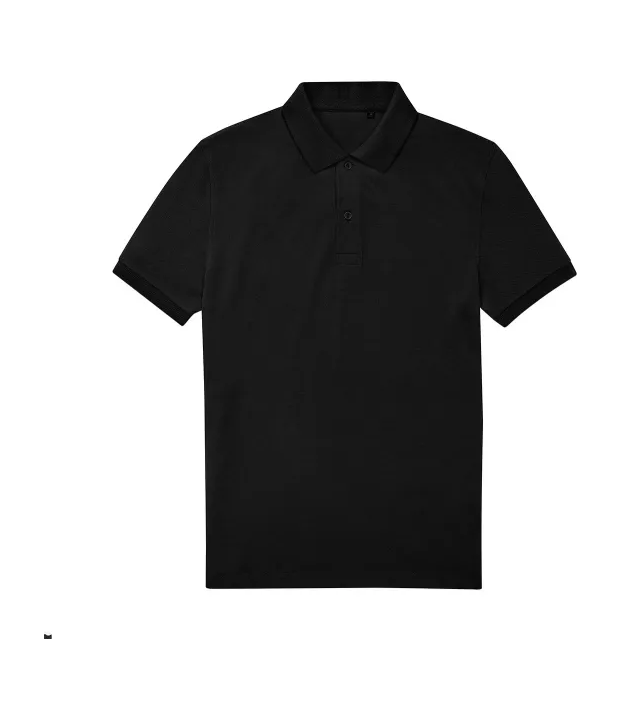
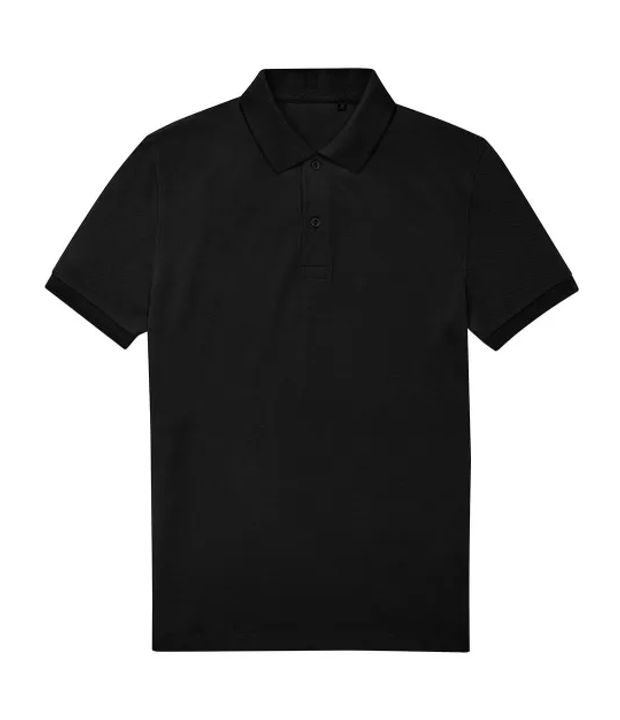
Druckflächen: vier Restfälle je nach Bildmaterial bereinigt
Alle Bilder der vier offenen Produkt-/Ansicht-Kombinationen wurden einzeln
gesichtet (zusätzlich unabhängig doppelt klassifiziert, Widersprüche durch
eine dritte Sicht entschieden):

- gildan-softstyle-midweight-sweat-adult-hoodie/sleeve_left: alle 10
  "Ärmelbilder" sind On-Model-Aufnahmen (Person im Bild) aus fünf
  verschiedenen Shootings – kein geeignetes Seitenbild vorhanden. Bilder
  entfernt; ohne Bild führt das Manifest die Ansicht nicht, die Druckfläche
  entfällt (die Fläche lag auf der Bauchtasche). Der Reiter war wegen
  10/34 Farben bereits ausgeblendet.
- gildan-ultra-cotton-long-sleeve-t-shirt/sleeve_left: alle 21 "Ärmelbilder"
  sind Dreiviertel-Vorderansichten, die Fläche lag auf der Brust und war
  für Kunden SICHTBAR (21/21 Farben). Bilder entfernt; Ansicht entfällt,
  bis echte Seitenbilder vorliegen.
- gildan-heavy-blend-hooded-sweatshirt/sleeve_left: nur Farbe b23730 (rot)
  hatte eine Vorderansicht als Ärmelbild – entfernt. Fläche neu aus den
  drei echten Seitenansichten (black, sport-grey-heather, white) berechnet:
  y1 85.6 → 87.7, 100 % auf Stoff.
- bundc-my-eco-polo-6535/front: nur das schwarze Foto war anders gerahmt
  (Shirt 15 % kleiner, 5 % nach rechts versetzt, Fleck links unten). Es
  wurde an die Rahmung der 19 anderen Farben angeglichen (Kragen 9,3 %,
  Saum 90,3 %, Torsobreite 320 px ≙ Referenz 319 px); Druckfläche und die
  19 anderen Farben bleiben unverändert. Als Folge stimmt der cm-Maßstab
[…]

Changed region(s): [[0.0613, 0.0917, 0.95, 0.9167], [0.7661, 0.1833, 0.8274, 0.2444], [0.8274, 0.2444, 0.8581, 0.275]]

diff --git a/src/lib/assets/assetManifest.generated.ts b/src/lib/assets/assetManifest.generated.ts
@@ -12616,8 +12616,7 @@ export const ASSET_MANIFEST: Record<string, Record<string, AssetManifestEintrag>
     "b23730": {
       "views": {
         "front": "/products/gildan-heavy-blend-hooded-sweatshirt-b23730/front.webp",
-        "back": "/products/gildan-heavy-blend-hooded-sweatshirt-b23730/back.webp",
-        "sleeve_left": "/products/gildan-heavy-blend-hooded-sweatshirt-b23730/sleeve-left.webp"
+        "back": "/products/gildan-heavy-blend-hooded-sweatshirt-b23730/back.webp"
       },
       "status": "real"
     },
@@ -12884,24 +12883,21 @@ export const ASSET_MANIFEST: Record<string, Record<string, AssetManifestEintrag>
     "black": {
       "views": {
         "front": "/products/gildan-softstyle-midweight-sweat-adult-hoodie-black/front.webp",
-        "back": "/products/gildan-softstyle-midweight-sweat-adult-hoodie-black/back.webp",
-        "sleeve_left": "/products/gildan-softstyle-midweight-sweat-adult-hoodie-black/sleeve-left.webp"
+        "back": "/products/gildan-softstyle-midweight-sweat-adult-hoodie-black/back.webp"
       },
       "status": "real"
     },
     "charcoal-solid": {
       "views": {
         "front": "/products/gildan-softstyle-midweight-sweat-adult-hoodie-charcoal-solid/front.webp",
-        "back": "/products/gildan-softstyle-midweight-sweat-adult-hoodie-charcoal-solid/back.webp",
-        "sleeve_left": "/products/gildan-softstyle-midweight-sweat-adult-hoodie-charcoal-solid/sleeve-left.webp"
+        "back": "/products/gildan-softstyle-midweight-sweat-adult-hoodie-charcoal-solid/back.webp"
       },
       "status": "real"
     },
     "dark-heather": {
       "views": {
         "front": "/products/gildan-softstyle-midweight-sweat-adult-hoodie-dark-heather/front.webp",
-        "back": "/products/gildan-softstyle-midweight-sweat-adult-hoodie-dark-heather/back.webp",
-        "sleeve_left": "/products/gildan-softstyle-midweight-sweat-adult-hoodie-dark-heather/sleeve-left.webp"
+        "back": "/products/gildan-softstyle-midweight-sweat-adult-hoodie-dark-heather/back.webp"
       },
       "status": "real"
     },
@@ -12915,16 +12911,14 @@ export const ASSET_MANIFEST: Record<string, Record<string, AssetManifestEintrag>
     "maroon": {
       "views": {
         "front": "/products/gildan-softstyle-midweight-sweat-adult-hoodie-maroon/front.webp",
-        "back": "/products/gildan-softstyle-midweight-sweat-adult-hoodie-maroon/back.webp",
-        "sleeve_left": "/products/gildan-softstyle-midweight-sweat-adult-hoodie-maroon/sleeve-left.webp"
+        "back": "/products/gildan-softstyle-midweight-sweat-adult-hoodie-maroon/back.webp"
       },
       "status": "real"
     },
     "military-green": {
       "views": {
         "front": "/products/gildan-softstyle-midweight-sweat-adult-hoodie-military-green/front.webp",
-        "back": "/products/gildan-softstyle-midweight-sweat-adult-hoodie-military-green/back.webp",
-        "sleeve_left": "/products/gildan-softstyle-midweight-sweat-adult-hoodie-military-green/sleeve-left.webp"
+        "back": "/products/gildan-softstyle-midweight-sweat-adult-hoodie-military-green/back.webp"
       },
       "status": "real"
     },
@@ -12952,8 +12946,7 @@ export const ASSET_MANIFEST: Record<string, Record<string, AssetManifestEintrag>
     "sand": {
       "views": {
         "front": "/products/gildan-softstyle-midweight-sweat-adult-hoodie-sand/front.webp",
-        "back": "/products/gildan-softstyle-midweight-sweat-adult-hoodie-sand/back.webp",
-        "sleeve_left": "/products/gildan-softstyle-midweight-sweat-adult-hoodie-sand/sleeve-left.webp"
+        "back": "/products/gildan-softstyle-midweight-sweat-adult-hoodie-sand/back.webp"
       },
       "status": "real"
     },
@@ -12981,8 +12974,7 @@ export const ASSET_MANIFEST: Record<string, Record<string, AssetManifestEintrag>
     "cocoa": {
       "views": {
         "front": "/products/gildan-softstyle-midweight-sweat-adult-hoodie-cocoa/front.webp",
-        "back": "/products/gildan-softstyle-midweight-sweat-adult-hoodie-cocoa/back.webp",
-        "sleeve_left": "/products/gildan-softstyle-midweight-sweat-adult-hoodie-cocoa/sleeve-left.webp"
+        "back": "/products/gildan-softstyle-midweight-sweat-adult-hoodie-cocoa/back.webp"
       },
       "status": "real"
     },
@@ -13017,16 +13009,14 @@ export const ASSET_MANIFEST: Record<string, Record<string, AssetManifestEintrag>
     "pistachio": {
       "views": {
         "front": "/products/gildan-softstyle-midweight-sweat-adult-hoodie-pistachio/front.webp",
-        "back": "/products/gildan-softstyle-midweight-sweat-adult-hoodie-pistachio/back.webp",
-        "sleeve_left": "/products/gildan-softstyle-midweight-sweat-adult-hoodie-pistachio/sleeve-left.webp"
+        "back": "/products/gildan-softstyle-midweight-sweat-adult-hoodie-pistachio/back.webp"
       },
       "status": "real"
     },
     "purple": {
       "views": {
         "front": "/products/gildan-softstyle-midweight-sweat-adult-hoodie-purple/front.webp",
-        "back": "/products/gildan-softstyle-midweight-sweat-adult-hoodie-purple/back.webp",
-        "sleeve_left": "/products/gildan-softstyle-midweight-sweat-adult-hoodie-purple/sleeve-left.webp"
+        "back": "/products/gildan-softstyle-midweight-sweat-adult-hoodie-purple/back.webp"
       },
       "status": "real"
     },
@@ -13054,8 +13044,7 @@ export const ASSET_MANIFEST: Record<string, Record<string, AssetManifestEintrag>
     "ash-grey-heather": {
       "views": {
         "front": "/products/gildan-softstyle-midweight-sweat-adult-hoodie-ash-grey-heather/front.webp",
-        "back": "/products/_platzhalter/platzhalter.webp",
-        "sleeve_left": "/products/gildan-softstyle-midweight-sweat-adult-hoodie-ash-grey-heather/sleeve-left.webp"
+        "back": "/products/_platzhalter/platzhalter.webp"
       },
       "status": "real"
     },
@@ -16193,168 +16182,147 @@ export const ASSET_MANIFEST: Record<string, Record<string, AssetManifestEintrag>
     "navy": {
       "views": {
         "front": "/products/gildan-ultra-cotton-long-sleeve-t-shirt-navy/front.webp",
-        "back": "/products/gildan-ultra-cotton-long-sleeve-t-shirt-navy/back.webp",
-        "sleeve_left": "/products/gildan-ultra-cotton-long-sleeve-t-shirt-navy/sleeve-left.webp"
+        "back": "/products/gildan-ultra-cotton-long-sleeve-t-shirt-navy/back.webp"
       },
       "status": "real"
     },
     "dark-chocolate": {
       "views": {
         "front": "/products/gildan-ultra-cotton-long-sleeve-t-shirt-dark-chocolate/front.webp",
-        "back": "/products/gildan-ultra-cotton-long-sleeve-t-shirt-dark-chocolate/back.webp",
-        "sleeve_left": "/products/gildan-ultra-cotton-long-sleeve-t-shirt-dark-chocolate/sleeve-left.webp"
+        "back": "/products/gildan-ultra-cotton-long-sleeve-t-shirt-dark-chocolate/back.webp"
       },
       "status": "real"
     },
     "ash-grey-heather": {
       "views": {
         "front": "/products/gildan-ultra-cotton-long-sleeve-t-shirt-ash-grey-heather/front.webp",
-        "back": "/products/gildan-ultra-cotton-long-sleeve-t-shirt-ash-grey-heather/back.webp",
-        "sleeve_left": "/products/gildan-ultra-cotton-long-sleeve-t-shirt-ash-grey-heather/sleeve-left.webp"
+        "back": "/products/gildan-ultra-cotton-long-sleeve-t-shirt-ash-grey-heather/back.webp"
       },
       "status": "real"
     },
     "black": {
       "views": {
         "front": "/products/gildan-ultra-cotton-long-sleeve-t-shirt-black/front.webp",
-        "back": "/products/gildan-ultra-cotton-long-sleeve-t-shirt-black/back.webp",
-        "sleeve_left": "/products/gildan-ultra-cotton-long-sleeve-t-shirt-black/sleeve-left.webp"
+        "back": "/products/gildan-ultra-cotton-long-sleeve-t-shirt-black/back.webp"
       },
       "status": "real"
     },
     "cardinal-red": {
       "views": {
         "front": "/products/gildan-ultra-cotton-long-sleeve-t-shirt-cardinal-red/front.webp",
-        "back": "/products/gildan-ultra-cotton-long-sleeve-t-shirt-cardinal-red/back.webp",
-        "sleeve_left": "/products/gildan-ultra-cotton-long-sleeve-t-shirt-cardinal-red/sleeve-left.webp"
+        "back": "/products/gildan-ultra-cotton-long-sleeve-t-shirt-cardinal-red/back.webp"
       },
       "status": "real"
     },
     "carolina-blue": {
       "views": {
         "front": "/products/gildan-ultra-cotton-long-sleeve-t-shirt-carolina-blue/front.webp",
-        "back": "/products/gildan-ultra-cotton-long-sleeve-t-shirt-carolina-blue/back.webp",
-        "sleeve_left": "/products/gildan-ultra-cotton-long-sleeve-t-shirt-carolina-blue/sleeve-left.webp"
+        "back": "/products/gildan-ultra-cotton-long-sleeve-t-shirt-carolina-blue/back.webp"
       },
       "status": "real"
     },
     "charcoal-solid": {
       "views": {
         "front": "/products/gildan-ultra-cotton-long-sleeve-t-shirt-charcoal-solid/front.webp",
-        "back": "/products/gildan-ultra-cotton-long-sleeve-t-shirt-charcoal-solid/back.webp",
-        "sleeve_left": "/products/gildan-ultra-cotton-long-sleeve-t-shirt-charcoal-solid/sleeve-left.webp"
+        "back": "/products/gildan-ultra-cotton-long-sleeve-t-shirt-charcoal-solid/back.webp"
       },
       "status": "real"
     },
     "dark-heather": {
       "views": {
         "front": "/products/gildan-ultra-cotton-long-sleeve-t-shirt-dark-heather/front.webp",
-        "back": "/products/gildan-ultra-cotton-long-sleeve-t-shirt-dark-heather/back.webp",
-        "sleeve_left": "/products/gildan-ultra-cotton-long-sleeve-t-shirt-dark-heather/sleeve-left.webp"
+        "back": "/products/gildan-ultra-cotton-long-sleeve-t-shirt-dark-heather/back.webp"
       },
       "status": "real"
     },
     "forest-green": {
       "views": {
         "front": "/products/gildan-ultra-cotton-long-sleeve-t-shirt-forest-green/front.webp",
-        "back": "/products/gildan-ultra-cotton-long-sleeve-t-shirt-forest-green/back.webp",
-        "sleeve_left": "/products/gildan-ultra-cotton-long-sleeve-t-shirt-forest-green/sleeve-left.webp"
+        "back": "/products/gildan-ultra-cotton-long-sleeve-t-shirt-forest-green/back.webp"
       },
       "status": "real"
     },
     "gold": {
       "views": {
         "front": "/products/gildan-ultra-cotton-long-sleeve-t-shirt-gold/front.webp",
-        "back": "/products/gildan-ultra-cotton-long-sleeve-t-shirt-gold/back.webp",
-        "sleeve_left": "/products/gildan-ultra-cotton-long-sleeve-t-shirt-gold/sleeve-left.webp"
+        "back": "/products/gildan-ultra-cotton-long-sleeve-t-shirt-gold/back.webp"
       },
       "status": "real"
     },
     "irish-green": {
       "views": {
         "front": "/products/gildan-ultra-cotton-long-sleeve-t-shirt-irish-green/front.webp",
-        "back": "/products/gildan-ultra-cotton-long-sleeve-t-shirt-irish-green/back.webp",
-        "sleeve_left": "/products/gildan-ultra-cotton-long-sleeve-t-shirt-irish-green/sleeve-left.webp"
+        "back": "/products/gildan-ultra-cotton-long-sleeve-t-shirt-irish-green/back.webp"
       },
       "status": "real"
     },
     "light-blue": {
       "views": {
         "front": "/products/gildan-ultra-cotton-long-sleeve-t-shirt-light-blue/front.webp",
-        "back": "/products/gildan-ultra-cotton-long-sleeve-t-shirt-light-blue/back.webp",
-        "sleeve_left": "/products/gildan-ultra-cotton-long-sleeve-t-shirt-light-blue/sleeve-left.webp"
+        "back": "/products/gildan-ultra-cotton-long-sleeve-t-shirt-light-blue/back.webp"
       },
       "status": "real"
     },
     "light-pink": {
       "views": {
         "front": "/products/gildan-ultra-cotton-long-sleeve-t-shirt-light-pink/front.webp",
-        "back": "/products/gildan-ultra-cotton-long-sleeve-t-shirt-light-pink/back.webp",
-        "sleeve_left": "/products/gildan-ultra-cotton-long-sleeve-t-shirt-light-pink/sleeve-left.webp"
+        "back": "/products/gildan-ultra-cotton-long-sleeve-t-shirt-light-pink/back.webp"
       },
       "status": "real"
     },
     "maroon": {
       "views": {
         "front": "/products/gildan-ultra-cotton-long-sleeve-t-shirt-maroon/front.webp",
-        "back": "/products/gildan-ultra-cotton-long-sleeve-t-shirt-maroon/back.webp",
-        "sleeve_left": "/products/gildan-ultra-cotton-long-sleeve-t-shirt-maroon/sleeve-left.webp"
+        "back": "/products/gildan-ultra-cotton-long-sleeve-t-shirt-maroon/back.webp"
       },
       "status": "real"
     },
     "orange": {
       "views": {
         "front": "/products/gildan-ultra-cotton-long-sleeve-t-shirt-orange/front.webp",
-        "back": "/products/gildan-ultra-cotton-long-sleeve-t-shirt-orange/back.webp",
-        "sleeve_left": "/products/gildan-ultra-cotton-long-sleeve-t-shirt-orange/sleeve-left.webp"
+        "back": "/products/gildan-ultra-cotton-long-sleeve-t-shirt-orange/back.webp"
       },
       "status": "real"
     },
     "red": {
       "views": {
         "front": "/products/gildan-ultra-cotton-long-sleeve-t-shirt-red/front.webp",
-        "back": "/products/gildan-ultra-cotton-long-sleeve-t-shirt-red/back.webp",
-        "sleeve_left": "/products/gildan-ultra-cotton-long-sleeve-t-shirt-red/sleeve-left.webp"
+        "back": "/products/gildan-ultra-cotton-long-sleeve-t-shirt-red/back.webp"
       },
       "status": "real"
     },
     "royal": {
       "views": {
         "front": "/products/gildan-ultra-cotton-long-sleeve-t-shirt-royal/front.webp",
-        "back": "/products/gildan-ultra-cotton-long-sleeve-t-shirt-royal/back.webp",
-        "sleeve_left": "/products/gildan-ultra-cotton-long-sleeve-t-shirt-royal/sleeve-left.webp"
+        "back": "/products/gildan-ultra-cotton-long-sleeve-t-shirt-royal/back.webp"
       },
       "status": "real"
     },
     "safety-green-neon": {
       "views": {
         "front": "/products/gildan-ultra-cotton-long-sleeve-t-shirt-safety-green-neon/front.webp",
-        "back": "/products/gildan-ultra-cotton-long-sleeve-t-shirt-safety-green-neon/back.webp",
-        "sleeve_left": "/products/gildan-ultra-cotton-long-sleeve-t-shirt-safety-green-neon/sleeve-left.webp"
+        "back": "/products/gildan-ultra-cotton-long-sleeve-t-shirt-safety-green-neon/back.webp"
       },
       "status": "real"
     },
     "safety-orange-neon": {
       "views": {
         "front": "/products/gildan-ultra-cotton-long-sleeve-t-shirt-safety-orange-neon/front.webp",
-        "back": "/products/gildan-ultra-cotton-long-sleeve-t-shirt-safety-orange-neon/back.webp",
-        "sleeve_left": "/products/gildan-ultra-cotton-long-sleeve-t-shirt-safety-orange-neon/sleeve-left.webp"
+        "back": "/products/gildan-ultra-cotton-long-sleeve-t-shirt-safety-orange-neon/back.webp"
       },
       "status": "real"
     },
     "sport-grey-heather": {
       "views": {
         "front": "/products/gildan-ultra-cotton-long-sleeve-t-shirt-sport-grey-heather/front.webp",
-        "back": "/products/gildan-ultra-cotton-long-sleeve-t-shirt-sport-grey-heather/back.webp",
-        "sleeve_left": "/products/gildan-ultra-cotton-long-sleeve-t-shirt-sport-grey-heather/sleeve-left.webp"
+        "back": "/products/gildan-ultra-cotton-long-sleeve-t-shirt-sport-grey-heather/back.webp"
       },
       "status": "real"
     },
     "white": {
       "views": {
         "front": "/products/gildan-ultra-cotton-long-sleeve-t-shirt-white/front.webp",
-        "back": "/products/gildan-ultra-cotton-long-sleeve-t-shirt-white/back.webp",
-        "sleeve_left": "/products/gildan-ultra-cotton-long-sleeve-t-shirt-white/sleeve-left.webp"
+        "back": "/products/gildan-ultra-cotton-long-sleeve-t-shirt-white/back.webp"
       },
       "status": "real"
     }

diff --git a/src/config/printAreaData.generated.ts b/src/config/printAreaData.generated.ts
@@ -502,7 +502,7 @@ export const PRINT_AREA_DATA: Record<string, Partial<Record<PrintView, Generated
     sleeve_left: { x0: 36.8, y0: 35.1, x1: 63.5, y1: 89.9, imgW: 620, imgH: 720, maxWidthCm: 8.9, maxHeightCm: 10, boxWidthCm: 19.8, boxHeightCm: 47.1, startXCm: 10.1, startYCm: 0, garmentWidthCm: 10.9, garmentHeightCm: 10, },
   },
   'bundc-my-eco-polo-6535': {
-    front: { x0: 26, y0: 26.4, x1: 74, y1: 88, imgW: 620, imgH: 720, maxWidthCm: 30, maxHeightCm: 47, boxWidthCm: 41, boxHeightCm: 61.1, garmentWidthCm: 46, garmentHeightCm: 59, bySize: { 'S': { x0: 26, y0: 26.4, x1: 74, y1: 88, maxWidthCm: 30, maxHeightCm: 47, boxWidthCm: 41, boxHeightCm: 61.1 }, 'L': { x0: 22.7, y0: 26.4, x1: 77.4, y1: 91.5, maxWidthCm: 30, maxHeightCm: 47, boxWidthCm: 46.8, boxHeightCm: 64.6 }, 'XXL': { x0: 19.3, y0: 26.4, x1: 80.8, y1: 95, maxWidthCm: 30, maxHeightCm: 47, boxWidthCm: 52.5, boxHeightCm: 68.1 }, '3XL': { x0: 17.4, y0: 26.4, x1: 82.7, y1: 95.9, maxWidthCm: 30, maxHeightCm: 47, boxWidthCm: 55.8, boxHeightCm: 69 }, '4XL': { x0: 15.5, y0: 26.4, x1: 84.6, y1: 96.8, maxWidthCm: 30, maxHeightCm: 47, boxWidthCm: 59.1, boxHeightCm: 69.8 }, '5XL': { x0: 13.6, y0: 26.4, x1: 86.6, y1: 97.7, maxWidthCm: 30, maxHeightCm: 47, boxWidthCm: 62.4, boxHeightCm: 70.7 } }, },
+    front: { x0: 26, y0: 25.6, x1: 74, y1: 88, imgW: 620, imgH: 720, maxWidthCm: 30, maxHeightCm: 47, boxWidthCm: 39.4, boxHeightCm: 59.4, garmentWidthCm: 46, garmentHeightCm: 59, bySize: { 'S': { x0: 26, y0: 25.6, x1: 74, y1: 88, maxWidthCm: 30, maxHeightCm: 47, boxWidthCm: 39.4, boxHeightCm: 59.4 }, 'L': { x0: 22.7, y0: 25.6, x1: 77.4, y1: 91.6, maxWidthCm: 30, maxHeightCm: 47, boxWidthCm: 44.9, boxHeightCm: 62.8 }, 'XXL': { x0: 19.3, y0: 25.6, x1: 80.8, y1: 95.1, maxWidthCm: 30, maxHeightCm: 47, boxWidthCm: 50.4, boxHeightCm: 66.2 }, '3XL': { x0: 17.4, y0: 25.6, x1: 82.7, y1: 96, maxWidthCm: 30, maxHeightCm: 47, boxWidthCm: 53.5, boxHeightCm: 67.1 }, '4XL': { x0: 15.5, y0: 25.6, x1: 84.6, y1: 96.9, maxWidthCm: 30, maxHeightCm: 47, boxWidthCm: 56.7, boxHeightCm: 67.9 }, '5XL': { x0: 13.6, y0: 25.6, x1: 86.6, y1: 97.8, maxWidthCm: 30, maxHeightCm: 47, boxWidthCm: 59.8, boxHeightCm: 68.8 } }, },
     back: { x0: 26, y0: 25.7, x1: 74, y1: 88, imgW: 620, imgH: 720, maxWidthCm: 30, maxHeightCm: 47, boxWidthCm: 38, boxHeightCm: 57.2, garmentWidthCm: 46, garmentHeightCm: 59, bySize: { 'S': { x0: 26, y0: 25.7, x1: 74, y1: 88, maxWidthCm: 30, maxHeightCm: 47, boxWidthCm: 38, boxHeightCm: 57.2 }, 'L': { x0: 22.6, y0: 25.7, x1: 77.4, y1: 91.6, maxWidthCm: 30, maxHeightCm: 47, boxWidthCm: 43.3, boxHeightCm: 60.5 }, 'XXL': { x0: 19.3, y0: 25.7, x1: 80.7, y1: 95.1, maxWidthCm: 30, maxHeightCm: 47, boxWidthCm: 48.6, boxHeightCm: 63.8 }, '3XL': { x0: 17.3, y0: 25.7, x1: 82.6, y1: 96, maxWidthCm: 30, maxHeightCm: 47, boxWidthCm: 51.6, boxHeightCm: 64.6 }, '4XL': { x0: 15.4, y0: 25.7, x1: 84.5, y1: 96.9, maxWidthCm: 30, maxHeightCm: 47, boxWidthCm: 54.7, boxHeightCm: 65.4 }, '5XL': { x0: 13.5, y0: 25.7, x1: 86.4, y1: 97.8, maxWidthCm: 30, maxHeightCm: 47, boxWidthCm: 57.7, boxHeightCm: 66.2 } }, },
     sleeve_left: { x0: 37.4, y0: 25.1, x1: 62.5, y1: 90.5, imgW: 620, imgH: 720, maxWidthCm: 8.9, maxHeightCm: 10, boxWidthCm: 17.6, boxHeightCm: 53.1, startXCm: 8.6, startYCm: 0, garmentWidthCm: 10.9, garmentHeightCm: 10, },
   },
@@ -586,13 +586,12 @@ export const PRINT_AREA_DATA: Record<string, Partial<Record<PrintView, Generated
   'gildan-heavy-blend-hooded-sweatshirt': {
     front: { x0: 30, y0: 40, x1: 70, y1: 69, imgW: 620, imgH: 720, maxWidthCm: 30, maxHeightCm: 35.9, boxWidthCm: 42.7, boxHeightCm: 35.9, garmentWidthCm: 52, garmentHeightCm: 60, bySize: { 'S': { x0: 31.8, y0: 40, x1: 68.2, y1: 68.2, maxWidthCm: 30, maxHeightCm: 34.9, boxWidthCm: 38.9, boxHeightCm: 34.9 }, 'M': { x0: 30, y0: 40, x1: 70, y1: 69, maxWidthCm: 30, maxHeightCm: 35.9, boxWidthCm: 42.7, boxHeightCm: 35.9 }, 'L': { x0: 28.2, y0: 40, x1: 71.8, y1: 70.2, maxWidthCm: 30, maxHeightCm: 37.5, boxWidthCm: 46.5, boxHeightCm: 37.5 }, 'XL': { x0: 26.5, y0: 40, x1: 73.6, y1: 71, maxWidthCm: 30, maxHeightCm: 38.5, boxWidthCm: 50.3, boxHeightCm: 38.5 }, 'XXL': { x0: 24.7, y0: 40, x1: 75.5, y1: 72.3, maxWidthCm: 30, maxHeightCm: 40, boxWidthCm: 54.1, boxHeightCm: 40 }, '3XL': { x0: 23, y0: 40, x1: 77.3, y1: 73.1, maxWidthCm: 30, maxHeightCm: 41, boxWidthCm: 57.9, boxHeightCm: 41 }, '4XL': { x0: 21.2, y0: 40, x1: 79.1, y1: 74.3, maxWidthCm: 30, maxHeightCm: 42.5, boxWidthCm: 61.7, boxHeightCm: 42.5 }, '5XL': { x0: 19.5, y0: 40, x1: 80.9, y1: 75.1, maxWidthCm: 30, maxHeightCm: 43.5, boxWidthCm: 65.5, boxHeightCm: 43.5 } }, },
     back: { x0: 30, y0: 32.3, x1: 70, y1: 87, imgW: 620, imgH: 720, maxWidthCm: 30, maxHeightCm: 47, boxWidthCm: 35.7, boxHeightCm: 56.6, garmentWidthCm: 52, garmentHeightCm: 60, bySize: { 'S': { x0: 31.8, y0: 32.3, x1: 68.2, y1: 85.5, maxWidthCm: 30, maxHeightCm: 47, boxWidthCm: 32.5, boxHeightCm: 55 }, 'M': { x0: 30, y0: 32.3, x1: 70, y1: 87, maxWidthCm: 30, maxHeightCm: 47, boxWidthCm: 35.7, boxHeightCm: 56.6 }, 'L': { x0: 28.2, y0: 32.3, x1: 71.8, y1: 89.3, maxWidthCm: 30, maxHeightCm: 47, boxWidthCm: 38.8, boxHeightCm: 59 }, 'XL': { x0: 26.4, y0: 32.3, x1: 73.5, y1: 90.8, maxWidthCm: 30, maxHeightCm: 47, boxWidthCm: 42, boxHeightCm: 60.6 }, 'XXL': { x0: 24.6, y0: 32.3, x1: 75.3, y1: 93.2, maxWidthCm: 30, maxHeightCm: 47, boxWidthCm: 45.2, boxHeightCm: 63 }, '3XL': { x0: 22.8, y0: 32.3, x1: 77.1, y1: 94.7, maxWidthCm: 30, maxHeightCm: 47, boxWidthCm: 48.4, boxHeightCm: 64.6 }, '4XL': { x0: 21, y0: 32.3, x1: 78.8, y1: 97, maxWidthCm: 30, maxHeightCm: 47, boxWidthCm: 51.6, boxHeightCm: 66.9 }, '5XL': { x0: 19.2, y0: 32.3, x1: 80.6, y1: 98.5, maxWidthCm: 30, maxHeightCm: 47, boxWidthCm: 54.8, boxHeightCm: 68.5 } }, },
-    sleeve_left: { x0: 36.9, y0: 25.1, x1: 63.8, y1: 85.6, imgW: 620, imgH: 720, maxWidthCm: 8.9, maxHeightCm: 10, boxWidthCm: 19.1, boxHeightCm: 49.8, startXCm: 10, startYCm: 0, garmentWidthCm: 10.9, garmentHeightCm: 10, },
+    sleeve_left: { x0: 36.9, y0: 25.1, x1: 63.8, y1: 87.7, imgW: 620, imgH: 720, maxWidthCm: 8.9, maxHeightCm: 10, boxWidthCm: 19.1, boxHeightCm: 51.5, startXCm: 10, startYCm: 0, garmentWidthCm: 10.9, garmentHeightCm: 10, },
     sleeve_right: { x0: 37.1, y0: 24.3, x1: 63, y1: 87.7, imgW: 620, imgH: 720, maxWidthCm: 8.9, maxHeightCm: 10, boxWidthCm: 18.4, boxHeightCm: 52.2, startXCm: 8.4, startYCm: 0, garmentWidthCm: 10.9, garmentHeightCm: 10, },
   },
   'gildan-softstyle-midweight-sweat-adult-hoodie': {
     front: { x0: 30, y0: 40.2, x1: 70, y1: 69, imgW: 620, imgH: 720, maxWidthCm: 30, maxHeightCm: 35.5, boxWidthCm: 42.4, boxHeightCm: 35.5, garmentWidthCm: 52, garmentHeightCm: 59, bySize: { 'S': { x0: 31.8, y0: 40.2, x1: 68.2, y1: 67.8, maxWidthCm: 30, maxHeightCm: 34, boxWidthCm: 38.6, boxHeightCm: 34 }, 'M': { x0: 30, y0: 40.2, x1: 70, y1: 69, maxWidthCm: 30, maxHeightCm: 35.5, boxWidthCm: 42.4, boxHeightCm: 35.5 }, 'L': { x0: 28.2, y0: 40.2, x1: 71.8, y1: 70.2, maxWidthCm: 30, maxHeightCm: 37, boxWidthCm: 46.2, boxHeightCm: 37 }, 'XL': { x0: 26.8, y0: 40.2, x1: 73.2, y1: 71.5, maxWidthCm: 30, maxHeightCm: 38.5, boxWidthCm: 49.2, boxHeightCm: 38.5 }, 'XXL': { x0: 25.4, y0: 40.2, x1: 74.7, y1: 72.7, maxWidthCm: 30, maxHeightCm: 40, boxWidthCm: 52.2, boxHeightCm: 40 } }, },
     back: { x0: 33.4, y0: 47, x1: 66.6, y1: 70, imgW: 620, imgH: 720, maxWidthCm: 30, maxHeightCm: 26.5, boxWidthCm: 33, boxHeightCm: 26.5, garmentWidthCm: 52, garmentHeightCm: 59, bySize: { 'S': { x0: 34.9, y0: 47, x1: 65.1, y1: 69, maxWidthCm: 30, maxHeightCm: 25.4, boxWidthCm: 30, boxHeightCm: 25.4 }, 'M': { x0: 33.4, y0: 47, x1: 66.6, y1: 70, maxWidthCm: 30, maxHeightCm: 26.5, boxWidthCm: 33, boxHeightCm: 26.5 }, 'L': { x0: 31.9, y0: 47, x1: 68.1, y1: 71, maxWidthCm: 30, maxHeightCm: 27.7, boxWidthCm: 35.9, boxHeightCm: 27.7 }, 'XL': { x0: 30.7, y0: 47, x1: 69.3, y1: 72, maxWidthCm: 30, maxHeightCm: 28.8, boxWidthCm: 38.3, boxHeightCm: 28.8 }, 'XXL': { x0: 29.5, y0: 47, x1: 70.4, y1: 73, maxWidthCm: 30, maxHeightCm: 30, boxWidthCm: 40.7, boxHeightCm: 30 } }, },
-    sleeve_left: { x0: 41.6, y0: 44.5, x1: 58.4, y1: 83.4, imgW: 620, imgH: 720, maxWidthCm: 8.9, maxHeightCm: 10, boxWidthCm: 11.7, boxHeightCm: 31.5, startXCm: 5.9, startYCm: 0, garmentWidthCm: 10.9, garmentHeightCm: 10, },
   },
   'gildan-hammer-maxweight-adult-hooded-sweatshirt': {
     front: { x0: 27.2, y0: 43.1, x1: 72.8, y1: 68, imgW: 620, imgH: 720, maxWidthCm: 30, maxHeightCm: 29, boxWidthCm: 45.7, boxHeightCm: 29, garmentWidthCm: 52, garmentHeightCm: 59, bySize: { 'S': { x0: 29.2, y0: 43.1, x1: 70.7, y1: 66.9, maxWidthCm: 30, maxHeightCm: 27.8, boxWidthCm: 41.7, boxHeightCm: 27.8 }, 'M': { x0: 27.2, y0: 43.1, x1: 72.8, y1: 68, maxWidthCm: 30, maxHeightCm: 29, boxWidthCm: 45.7, boxHeightCm: 29 }, 'L': { x0: 25.2, y0: 43.1, x1: 74.9, y1: 69.1, maxWidthCm: 30, maxHeightCm: 30.3, boxWidthCm: 49.8, boxHeightCm: 30.3 }, 'XL': { x0: 23.6, y0: 43.1, x1: 76.5, y1: 70.1, maxWidthCm: 30, maxHeightCm: 31.5, boxWidthCm: 53.1, boxHeightCm: 31.5 }, 'XXL': { x0: 22, y0: 43.1, x1: 78.1, y1: 71.2, maxWidthCm: 30, maxHeightCm: 32.7, boxWidthCm: 56.4, boxHeightCm: 32.7 } }, },
@@ -722,7 +721,6 @@ export const PRINT_AREA_DATA: Record<string, Partial<Record<PrintView, Generated
   'gildan-ultra-cotton-long-sleeve-t-shirt': {
     front: { x0: 28, y0: 16, x1: 72, y1: 83, imgW: 620, imgH: 720, maxWidthCm: 30, maxHeightCm: 47, boxWidthCm: 33.4, boxHeightCm: 59, garmentWidthCm: 52, garmentHeightCm: 65, bySize: { 'L': { x0: 28, y0: 16, x1: 72, y1: 83, maxWidthCm: 30, maxHeightCm: 47, boxWidthCm: 33.4, boxHeightCm: 59 } }, },
     back: { x0: 28, y0: 16, x1: 72, y1: 83, imgW: 620, imgH: 720, maxWidthCm: 30, maxHeightCm: 47, boxWidthCm: 33.4, boxHeightCm: 59, garmentWidthCm: 52, garmentHeightCm: 65, bySize: { 'L': { x0: 28, y0: 16, x1: 72, y1: 83, maxWidthCm: 30, maxHeightCm: 47, boxWidthCm: 33.4, boxHeightCm: 59 } }, },
-    sleeve_left: { x0: 25.8, y0: 20.8, x1: 73.9, y1: 84.1, imgW: 620, imgH: 720, maxWidthCm: 8.9, maxHeightCm: 10, boxWidthCm: 16.4, boxHeightCm: 25.1, startXCm: 9.7, startYCm: 7.4, garmentWidthCm: 10.9, garmentHeightCm: 10, },
   },
   'sols-men-s-long-sleeve-t-shirt-imperial': {
     front: { x0: 27, y0: 16.5, x1: 73, y1: 85, imgW: 620, imgH: 720, maxWidthCm: 30, maxHeightCm: 47, boxWidthCm: 33.1, boxHeightCm: 57.2, garmentWidthCm: 49, garmentHeightCm: 61, bySize: { 'M': { x0: 27, y0: 16.5, x1: 73, y1: 85, maxWidthCm: 30, maxHeightCm: 47, boxWidthCm: 33.1, boxHeightCm: 57.2 }, 'L': { x0: 25.7, y0: 16.5, x1: 74.3, y1: 86.9, maxWidthCm: 30, maxHeightCm: 47, boxWidthCm: 34.9, boxHeightCm: 58.7 }, 'XXL': { x0: 23.1, y0: 16.5, x1: 76.9, y1: 90.7, maxWidthCm: 30, maxHeightCm: 47, boxWidthCm: 38.7, boxHeightCm: 61.9 }, '3XL': { x0: 21.8, y0: 16.5, x1: 78.2, y1: 92.6, maxWidthCm: 30, maxHeightCm: 47, boxWidthCm: 40.6, boxHeightCm: 63.5 }, 'XL': { x0: 24.4, y0: 16.5, x1: 75.6, y1: 88.8, maxWidthCm: 30, maxHeightCm: 47, boxWidthCm: 36.8, boxHeightCm: 60.3 }, 'S': { x0: 28.3, y0: 16.5, x1: 71.7, y1: 83.1, maxWidthCm: 30, maxHeightCm: 47, boxWidthCm: 31.2, boxHeightCm: 55.6 }, '4XL': { x0: 20.5, y0: 16.5, x1: 79.5, y1: 96.4, maxWidthCm: 30, maxHeightCm: 47, boxWidthCm: 42.4, boxHeightCm: 66.7 }, 'XS': { x0: 29.6, y0: 16.5, x1: 70.4, y1: 81.2, maxWidthCm: 29.3, maxHeightCm: 47, boxWidthCm: 29.3, boxHeightCm: 54 } }, },
